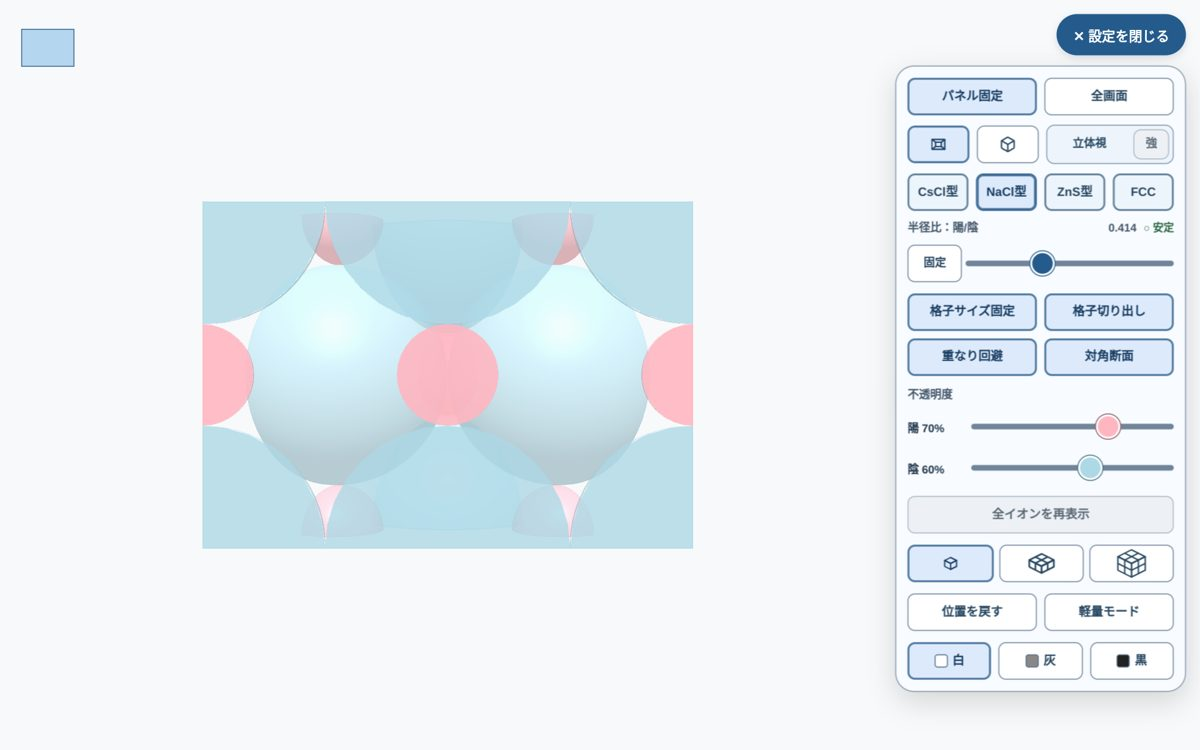
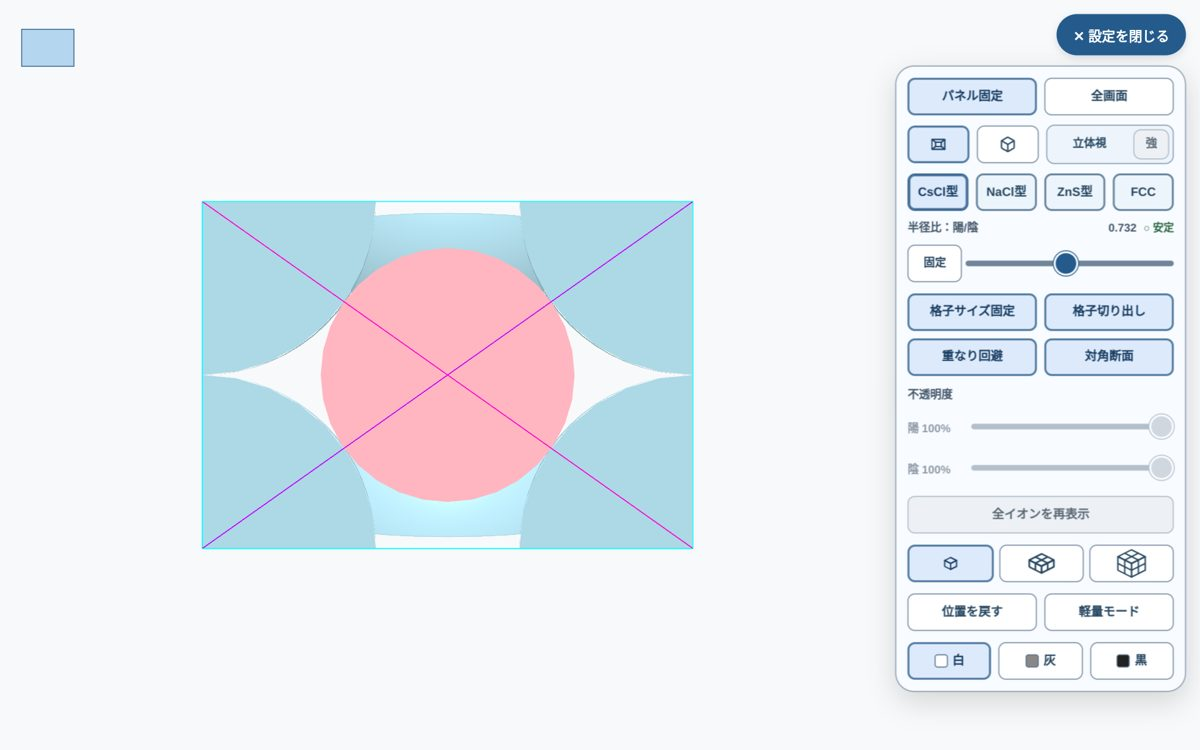
GenkaiHankeiHi slot6: CsCl diagonal section front view with purple diagonal lines

diff --git a/index.html b/index.html
@@ -158,7 +158,7 @@
           ['assets/genkai-3.jpg', 'ZnS型の結晶格子'],
           ['assets/genkai-4.jpg', '面心立方格子（FCC）モードの表示'],
           ['assets/genkai-5.jpg', 'FCCモードでABC層ごとに色分けした表示'],
-          ['assets/genkai-6.jpg', '対角断面を正面から見た表示'],
+          ['assets/genkai-6.jpg', 'CsCl型の対角断面を正面から見た表示（対角線つき）'],
         ],
       },
       stereo: {
